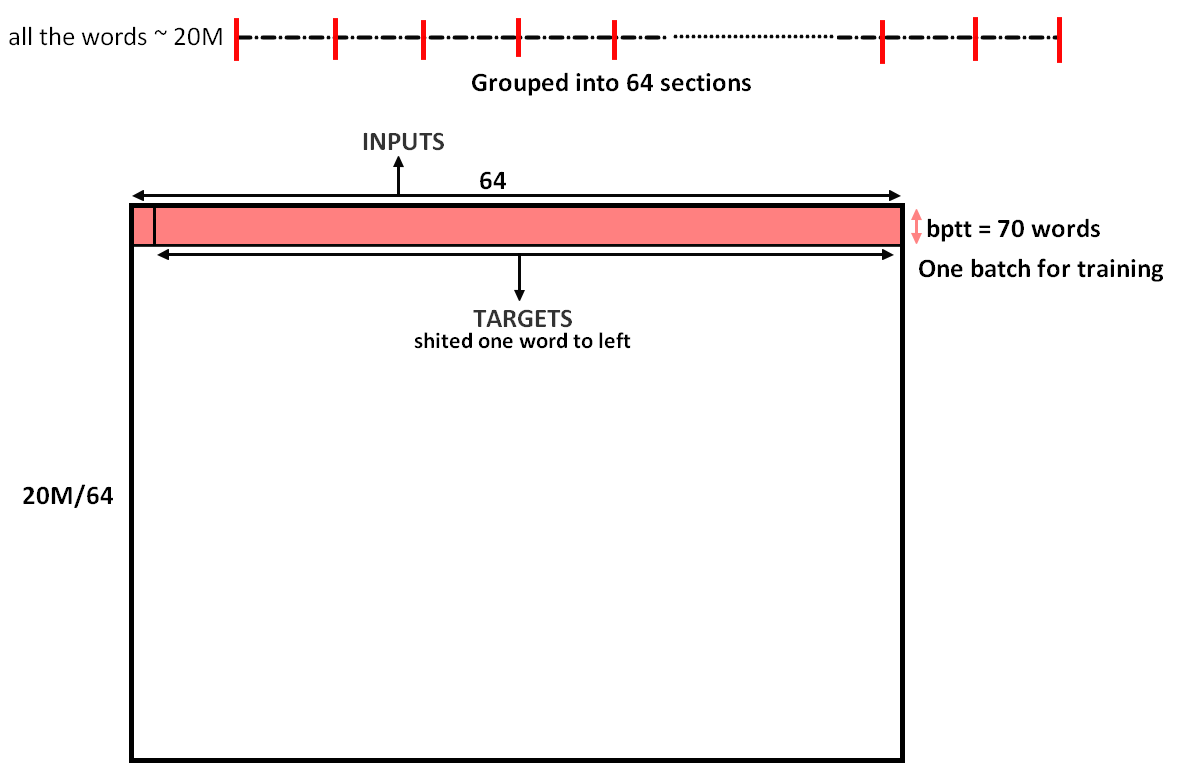
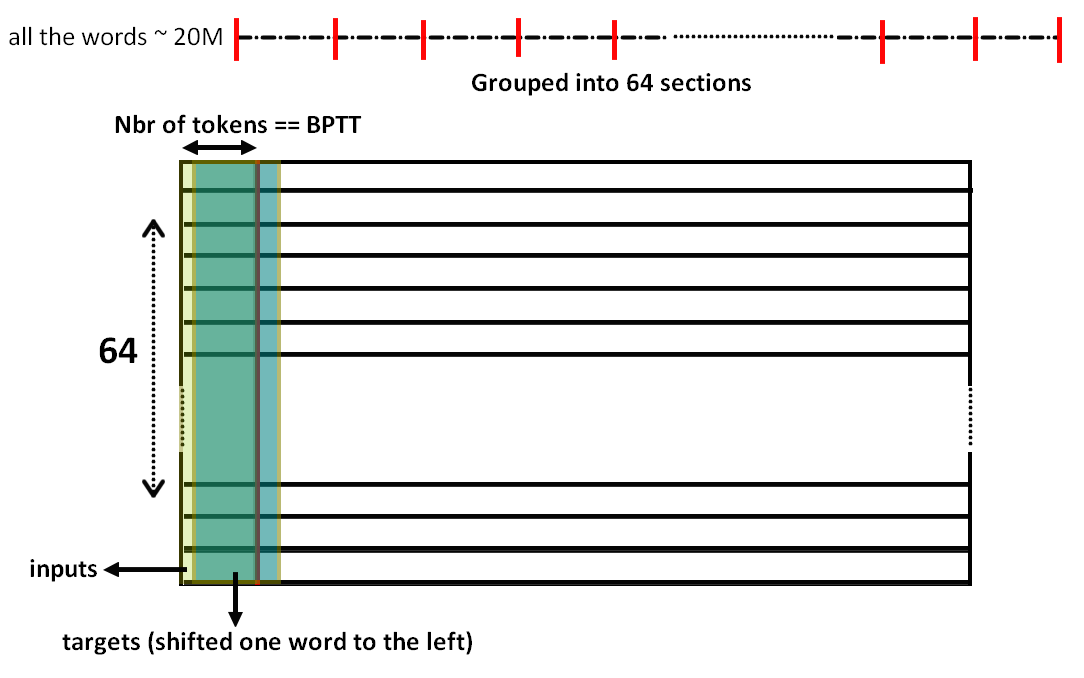
added lecture 7

Changed region(s): [[0.0, 0.1549, 1.0, 0.9912], [0.0, 0.031, 1.0, 0.1549]]

diff --git a/parctical_DL/lecture7.md b/parctical_DL/lecture7.md
@@ -1,0 +1,328 @@
+### Continuing With RNNs:
+
+In the last lecture, the first approach we explored, we created a training set, with 8 character and the 9th one as the target, and the next example are the same as the previous, but only shifted one word to the left, so for each example, we are recalculating the states for 7/8 words that we've already seen in the last example, this is very inefficient.
+
+So the solution is to take our corpus, and each time take sections with length 8 characters and the targets are the same but shifted one word to the left, this way we're seeing new examples each time and continuously predicting the next word. the figure (from [Deep Learning 2: Part 1 Lesson 7 by Hiromi Suenaga](https://medium.com/@hiromi_suenaga/deep-learning-2-part-1-lesson-7-1b9503aff0c)) explains the two approaches.
+
+<p align="center"> <img src="../figures/RNN_approaches.png" width="700"> </p>
+
+#### Stateful RNN
+
+In the last lecture, the way we implemented this, is that at each new section / example, we create a new hiddent state h0 (vector of zeros), and begin the predictions character by character, so for each 8 character, we'll endup needing to start over, and not reuse the computed hidden states, one possible way is to initilize the self.h in the constructor and do the calculation based on the earlier version in the forward method, but in this case, if we have thousands of character, the state of the later ones depend on the first hidden states, and so we need to packpropagate the error all the way to the start, at each time step, this is very computationnaly expensive, and the gradients are very likely to vanish or explode. so we limit the pack propagation to a fixed number of earlier states, the length is called BPTT (back-prop through time), this is implemented using `repackage_var` function:
+
+```python
+class CharSeqStatefulRnn(nn.Module):
+    def __init__(self, vocab_size, n_fac, bs):
+        self.vocab_size = vocab_size
+        super().__init__()
+        self.e = nn.Embedding(vocab_size, n_fac)
+        self.rnn = nn.RNN(n_fac, n_hidden)
+        self.l_out = nn.Linear(n_hidden, vocab_size)
+        self.init_hidden(bs)
+
+    def forward(self, cs):
+        bs = cs[0].size(0)
+        if self.h.size(1) != bs: self.init_hidden(bs)
+        outp,h = self.rnn(self.e(cs), self.h)
+        self.h = repackage_var(h)
+        return F.log_softmax(self.l_out(outp), dim=-1).view(-1, self.vocab_size)
+
+    def init_hidden(self, bs): self.h = V(torch.zeros(1, bs, n_hidden))
+
+    def repackage_var(h):
+      return Variable(h.data) if type(h) == Variable else tuple(repackage_var(v) for v in h)
+```
+
+In the code above, after finishing the calculation for a given sequence, length 8 characters in this case, we only keep the state / values of the hidden varaible, without its history (in case we have a multi layered RNN, we'll have many hidden states, for that we have the excpetion if h is not of type Varaible), in pytorch > 0.4, we only return h.data.
+
+#### Mini batches
+
+The idea, is that instead of passing only one sequence of length BPTT to our RNN to get the outputs per time step (== BPTT) and the last hidden state, we'dd like to pass BTTP x batch size to our RNN, this is can be done by taking all the dataset, and partition it into the number of batches we'd like, say 64, so we take all of the corpus and we divide it into 64 sections, and for each training iteration, we take a sequence of length BPTT (this sequence length might vary =/- 2 tokens to add some randomness to the process, given that in NLP we can shuffle the word) from each one of the 64 sections we created, we end up with 64 sequences of length BPTT, and given that each one was taken from a different section guarantees that we won't have any intersections, the targets are also the same sequences but shifted one token to the left.
+
+<p align="center"> <img src="../figures/nlp_batches.png" width="700"> </p>
+
+The total number of batches is vocab_size / (batch_size x BTTP).
+
+Size of batches and BPTT: we must choose the correct values, to not get CUDA out of memory errors, and when BTTP is too high, we might also get INF loss or NAN due to the vanishing grandient.
+
+#### Torch text
+
+We can split our dataset into minibatches using torch text:
+
+```python
+TEXT = data.Field(lower=True, tokenize=list)
+bs=64; bptt=8; n_fac=42; n_hidden=256
+
+FILES = dict(train=TRN_PATH, validation=VAL_PATH, test=VAL_PATH)
+md = LanguageModelData.from_text_files(PATH, TEXT, **FILES, bs=bs, bptt=bptt, min_freq=3)
+
+len(md.trn_dl), md.nt, len(md.trn_ds), len(md.trn_ds[0].text)
+(963, 56, 1, 493747)
+```
+
+In TorchText, we create Fields which is a description of how to go about pre-processing the text, so we lower case all the tokens, and to create the tokens we pass a tokenizer, in our case we want to transform all the words into characters, and this is simply done using `List` in python, and using the TEXT field we create our dataset, the targets generated and flattened into one dimensionnal arrays.
+
+```python
+
+class ConcatTextDataset(torchtext.data.Dataset):
+    def __init__(self, path, text_field, newline_eos=True, encoding='utf-8', **kwargs):
+        fields = [('text', text_field)]
+        text = []
+        if os.path.isdir(path): paths=glob(f'{path}/*.*')
+        else: paths=[path]
+        for p in paths:
+            for line in open(p, encoding=encoding): text += text_field.preprocess(line)
+            if newline_eos: text.append('<eos>')
+
+        examples = [torchtext.data.Example.fromlist([text], fields)]
+        super().__init__(examples, fields, **kwargs)
+
+    @classmethod
+    def splits(cls, train_df=None, val_df=None, test_df=None, keep_nones=False, **kwargs):
+        res = (
+            cls(train_df, **kwargs),
+            cls(val_df, **kwargs),
+            map_none(test_df, partial(cls, **kwargs)))  # not required
+        return res if keep_nones else tuple(d for d in res if d is not None)
+
+class LanguageModelData():
+    def __init__(self, path, field, trn_ds, val_ds, test_ds, bs, bptt, backwards=False, **kwargs):
+        self.bs = bs
+        self.path = path
+        self.trn_ds = trn_ds; self.val_ds = val_ds; self.test_ds = test_ds
+        if not hasattr(field, 'vocab'): field.build_vocab(self.trn_ds, **kwargs)
+
+        self.pad_idx = field.vocab.stoi[field.pad_token]
+        self.nt = len(field.vocab)
+
+        factory = lambda ds: LanguageModelLoader(ds, bs, bptt, backwards=backwards)
+        self.trn_dl = factory(self.trn_ds)
+        self.val_dl = factory(self.val_ds)
+        self.test_dl = map_none(self.test_ds, factory)  # not required
+
+   @classmethod
+   def from_text_files(cls, path, field, train, validation, test=None, bs=64, bptt=70):
+      trn_ds, val_ds, test_ds = ConcatTextDataset.splits(
+         path, text_field=field, train=train, validation=validation, test=test)
+      return cls(path, field, trn_ds, val_ds, test_ds, bs, bptt, **kwargs)
+```
+
+In fastai, this is implemented as above, first we create two spits by calling the constructor of `torchtext.data.Dataset`, the results are âsses to `from_text_files` that calls its constructor.
+
+Once we run `LanguageModelData.from_text_files`, TEXT will contain an extra attribute called vocab. `TEXT.vocab.itos` list of unique items in the vocabulary, and `TEXT.vocab.stoi` is a reverse mapping from each item to number.
+
+One last thing we need to correct, it is to check if we are in the last batch of the dataset of not, the last batch is very unlikely to contain and correct number of BPTT sequences, and when that't the case we need to re initialize our hidden states to start over, this is done each time in the last batch of each epoch, in the forward method we add `if self.h.size(1) != bs: self.init_hidden(bs)`
+
+Sometimes, it is better to do a for loop explicitly and only use an RNN cell and not an RNN layer, this give us more options to control the implementation and add more regularization techniques like AWD LSTM:
+
+```python
+    def __init__(self, vocab_size, n_fac, bs):
+        super().__init__()
+        self.vocab_size = vocab_size
+        self.e = nn.Embedding(vocab_size, n_fac)
+        self.rnn = nn.RNNCell(n_fac, n_hidden)
+        self.l_out = nn.Linear(n_hidden, vocab_size)
+        self.init_hidden(bs)
+
+    def forward(self, cs):
+        bs = cs[0].size(0)
+        if self.h.size(1) != bs: self.init_hidden(bs)
+        outp = []
+        o = self.h
+        for c in cs:
+            o = self.rnn(self.e(c), o)
+            outp.append(o)
+        outp = self.l_out(torch.stack(outp))
+        self.h = repackage_var(o)
+        return F.log_softmax(outp, dim=-1).view(-1, self.vocab_size)
+
+    def init_hidden(self, bs): self.h = V(torch.zeros(1, bs, n_hidden))
+```
+
+#### GRU / LSTMs
+
+In practice, we don't use vanilla RNN, but either LSTM (with two hidden variables this time H and C) or GRU, that control what we need to keep or forget for each time step depending on the current input and the hidden states, and then update the internal hidden state in the current time step depending on wheter we deleted some elements or not, the only thing we need to change is the type of layer we create, and if it is an LSTM add one more hidden state, and we can also add more layer with dropout between them:
+
+```python
+class CharSeqStatefulLSTM(nn.Module):
+    def __init__(self, vocab_size, n_fac, bs, nl):
+        super().__init__()
+        self.vocab_size,self.nl = vocab_size,nl
+        self.e = nn.Embedding(vocab_size, n_fac)
+        self.rnn = nn.LSTM(n_fac, n_hidden, nl, dropout=0.5)
+        self.l_out = nn.Linear(n_hidden, vocab_size)
+        self.init_hidden(bs)
+
+    def forward(self, cs):
+        bs = cs[0].size(0)
+        if self.h[0].size(1) != bs: self.init_hidden(bs)
+        outp,h = self.rnn(self.e(cs), self.h)
+        self.h = repackage_var(h)
+        return F.log_softmax(self.l_out(outp), dim=-1).view(-1, self.vocab_size)
+
+    def init_hidden(self, bs):
+        self.h = (V(torch.zeros(self.nl, bs, n_hidden)),
+                  V(torch.zeros(self.nl, bs, n_hidden)))
+```
+
+#### Testing :
+
+```python
+def get_next(inp):
+    idxs = TEXT.numericalize(inp)
+    p = m(VV(idxs.transpose(0,1)))
+    r = torch.multinomial(p[-1].exp(), 1)
+    return TEXT.vocab.itos[to_np(r)[0]]
+
+def get_next_n(inp, n):
+    res = inp
+    for i in range(n):
+        c = get_next(inp)
+        res += c
+        inp = inp[1:]+c
+    return res
+
+print(get_next_n('for thos', 400))
+```
+
+To test out trained model, we start by seeding a sequence of 8 character, and at each time we numericalize the characters, pass them through the model, and to add some variance to the output, we don't take the argmax this time, but we sample randomly given the output probabilities for the upcoming character (p[-1]).
+
+### Computer Vision, CIFAR 10
+
+We begin by doing image classification, we create our dataloader with some data augmentation (H flip, zero badding around the edges and random crop of 32x32), we create a simple net 3 dense layers net, of sizes 32x32x32 -> 40 -> 10 classes, using `nn.ModuleList`:
+
+```python
+layers = [32*32*3, 40,10]
+# In init
+self.layers = nn.ModuleList([
+            nn.Linear(layers[i], layers[i + 1]) for i in range(len(layers) - 1)])
+# In forward
+for l in self.layers:
+    l_x = l(x)
+    x = F.relu(l_x)
+```
+
+And then, as always, we find the right learning rate, and use learning rate finder and train the model.
+
+After that, we replace the dense / linear layers with three 3x3 CNN layers with channels: 3 -> 20, 20 -> 40, 40 -> 80, and then we use an adaptive max pooling to turn the spatil dimension into 1 x 1 with the number of channels == 80, so the last feature map is of size 1 x 1 x 80, and then a fully connected layer 80 -> 10.
+
+```python
+class ConvLayer(nn.Module):
+    def __init__(self, ni, nf):
+        super().__init__()
+        self.conv = nn.Conv2d(ni, nf, kernel_size=3, stride=2, padding=1)
+
+    def forward(self, x): return F.relu(self.conv(x))
+
+class ConvNet(nn.Module):
+    def __init__(self, layers, c):
+        super().__init__()
+        self.layers = nn.ModuleList([ConvLayer(layers[i], layers[i + 1])
+            for i in range(len(layers) - 1)])
+        self.out = nn.Linear(layers[-1], c)
+
+    def forward(self, x):
+        for l in self.layers: x = l(x)
+        x = F.adaptive_max_pool2d(x, 1)
+        x = x.view(x.size(0), -1)
+        return F.log_softmax(self.out(x), dim=-1)
+```
+
+Given that adaptive pooling / relu, does not have any weights, it is better to add them as functions in forward function, rather than layers in the constructor
+
+#### BatchNorm
+
+When we try to add more layers we get into some trouble while training, where we can't use large learning rates, and we need to choose small learning rates and the training takes a lot of time. To fix this, we need to use batch norm layers between conv layers, to scales the activations with unit variance and zero mean, so that the changes of the upcoming layers will not effect the earlier ones.
+
+```python
+class BnLayer(nn.Module):
+    def __init__(self, ni, nf, stride=2, kernel_size=3):
+        super().__init__()
+        self.conv = nn.Conv2d(ni, nf, kernel_size=kernel_size, 
+                              stride=stride, bias=False, padding=1)
+        self.a = nn.Parameter(torch.zeros(nf,1,1))
+        self.m = nn.Parameter(torch.ones(nf,1,1))
+
+    def forward(self, x):
+        x = F.relu(self.conv(x))
+        x_chan = x.transpose(0,1).contiguous().view(x.size(1), -1)
+        if self.training:
+            self.means = x_chan.mean(1)[:,None,None]
+            self.stds  = x_chan.std (1)[:,None,None]
+        return (x-self.means) / self.stds *self.m + self.a
+```
+
+To implement this, we calculate the mean of each channel or each filter and standard deviation of each channel or each filter, and then hen subtract the means and divide by the standard deviations, and multiply and add two learnable parameters to give  the model the possibility to learn different variance and mean if the its beneficial, to define the trainble parameters in pytorch, we use `nn.Parameter`.
+
+The other thing batch norm does is that it regularizes, in other words, we can often decrease or remove dropout or weight decay. The reason why is each mini-batch is going to have a different mean and a different standard deviation to the previous mini-batch. So they keep changing and it is changing the meaning of the filters in a subtle way acting as a noise (i.e. regularization). 
+
+In the DL frameworks, it is implemented as exponentially weighted moving average of the standard deviation and mean through out the training, and we go to the inference model, we use the same running averages we used in the training.
+
+With a pre-trained network, we need to be very careful about seeting the parameters of the BatchNorm to train, since will be also changing the running mean and variance, so it is better to also freeze the batch norm layers we doing fine tunning.
+
+We genrally add Relu after batch norm, even if in the original paper they used batch norm after the relu, but in the abalation studies done later on, people found that it is better to add the relu after the batch norm.
+
+#### Residuals
+
+In residual the outputs are : y = x + f(x), where x is prediction from the previous layer, y is prediction from the current layer. in other words, the function we're trying to learn, f(x) = y − x is called a residual. The residual is the error in terms of what we have calculated so far. What this is saying is that try to find a set of convolutional weights that attempts to fill in the amount we were off by. So in other words, we have an input, and we have a function which tries to predict the error (i.e. how much we are off by). Then we add a prediction of how much we were wrong by to the input, then add another prediction of how much we were wrong by that time, and repeat that layer after layer, zooming into the correct answer. This is based on a theory called boosting.
+
+```python
+class ResnetLayer(BnLayer):
+    def forward(self, x): return x + super().forward(x)
+
+class Resnet(nn.Module):
+    def __init__(self, layers, c, p=0.5):
+        super().__init__()
+        self.conv1 = BnLayer(3, 16, stride=1, kernel_size=7)
+        self.layers = nn.ModuleList([BnLayer(layers[i], layers[i+1])
+            for i in range(len(layers) - 1)])
+        self.layers2 = nn.ModuleList([ResnetLayer(layers[i+1], layers[i + 1], 1)
+            for i in range(len(layers) - 1)])
+        self.layers3 = nn.ModuleList([ResnetLayer(layers[i+1], layers[i + 1], 1)
+            for i in range(len(layers) - 1)])
+        self.out = nn.Linear(layers[-1], c)
+        self.drop = nn.Dropout(p)
+
+    def forward(self, x):
+        x = self.conv1(x)
+        for l,l2,l3 in zip(self.layers, self.layers2, self.layers3):
+            x = l3(l2(l(x)))
+        x = F.adaptive_max_pool2d(x, 1)
+        x = x.view(x.size(0), -1)
+        x = self.drop(x)
+        return F.log_softmax(self.out(x), dim=-1)
+
+model = Resnet2([16, 32, 64, 128, 256], 10, 0.2)
+```
+
+The full ResNet does two convolutions before it gets added back to the original input.
+
+#### Class Activation Maps (CAM)
+
+One way to visuals how our model males some predictions, is to use CAM. what we do is to create a CNN network, where in the last layer will have C x H x W, where we have C number of channels that are equal to the number of classes, and after adaptive pooling will endup with C x 1 x 1, so each channel is reponsible for detecting one of the classes, say we have 2 x 7 x 7 for Dogs vs. Cats problem, and our model predicted cats, so we take the channel responsible for cats, and upsample it the size of the input image, and plot it, and we see a heat map, on where the model focuses to make such a prediction.
+
+<p align="center"> <img src="../figures/CAM.png" width="600"> </p>
+
+To implemnet this on pytorch, we need to get the activations of the conv layers (the last one specifically), and this is done use a forward hook, “Hook” is the mechanism that lets us ask the model to return the activation. `register_forward_hook` asks PyTorch that every time it calculates a layer it runs the function given, sort of like a callback that happens every time it calculates a layer.
+
+```python
+class SaveFeatures():
+    features=None
+    def __init__(self, m):
+        self.hook = m.register_forward_hook(self.hook_fn)
+    def hook_fn(self, module, input, output):
+        self.features = to_np(output)
+    def remove(self): self.hook.remove()
+
+sf = SaveFeatures(m[-4])
+output = m(image.cuda())
+sf.remove()
+
+prediction = np.exp(to_np(py)[0])
+# array([ 1.,  0.], dtype=float32)
+
+feat = np.maximum(0, sf.features[0])
+F.upsample(feat, image.size()[2:])
+```
+
+So we pass the image through the model, get the last activations, remove them from the GPU memory, and get the first dim given that our prediction is a cat, and upsample these features.
